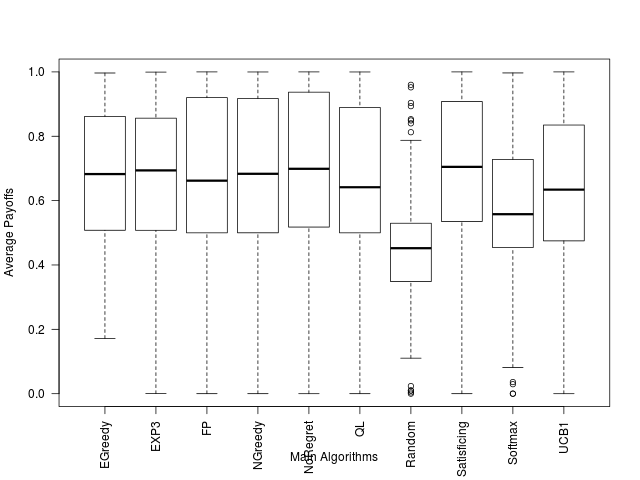
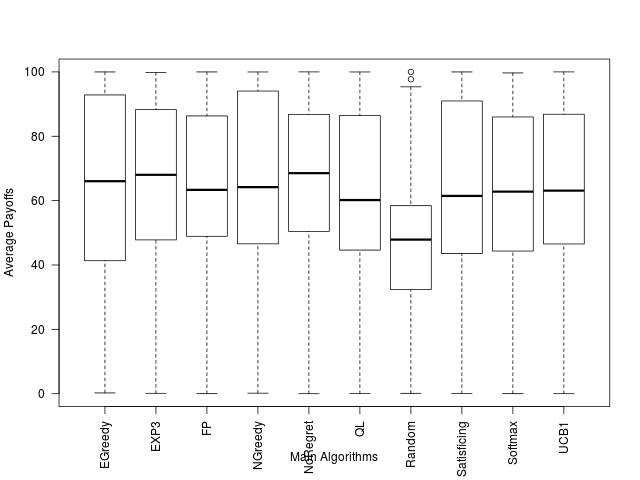
add tables, flag n,m = true

diff --git a/tables/totaldata2a.tex b/tables/totaldata2a.tex
@@ -1,20 +1,20 @@
 % latex table generated in R 3.2.3 by xtable 1.8-3 package
-% Tue Apr  2 15:21:40 2019
+% Tue Apr  2 21:18:58 2019
 \begin{table}[ht]
 \centering
 \begin{tabular}{rrrrrrrrrrr}
   \hline
  & Random & UCB1 & EXP3 & Satisficing & EGreedy & NGreedy & Softmax & NoRegret & FP & QL \\ 
   \hline
-2 & 44.84 & 71.89 & 72.98 & 73.88 & 71.26 & 75.07 & 72.64 & 77.57 & 76.39 & 71.33 \\ 
-  3 & 49.83 & 69.82 & 67.92 & 70.68 & 68.44 & 70.23 & 71.20 & 71.81 & 72.62 & 72.46 \\ 
-  4 & 46.19 & 66.67 & 64.71 & 64.06 & 66.18 & 68.51 & 68.03 & 69.55 & 67.86 & 70.17 \\ 
-  5 & 44.74 & 61.87 & 64.61 & 65.40 & 64.98 & 69.11 & 66.65 & 66.78 & 68.00 & 62.85 \\ 
-  6 & 46.76 & 65.48 & 63.96 & 62.09 & 61.06 & 63.44 & 61.57 & 65.71 & 62.53 & 64.17 \\ 
-  7 & 43.92 & 63.40 & 62.10 & 65.69 & 65.39 & 58.96 & 63.98 & 62.59 & 63.73 & 60.76 \\ 
-  8 & 45.59 & 61.75 & 61.60 & 63.54 & 61.23 & 62.72 & 61.55 & 64.48 & 62.18 & 61.62 \\ 
-  9 & 45.37 & 63.18 & 63.67 & 66.06 & 61.65 & 62.32 & 59.78 & 63.21 & 65.73 & 59.24 \\ 
-  10 & 45.14 & 61.38 & 63.34 & 61.98 & 62.28 & 62.49 & 60.61 & 64.37 & 62.29 & 61.51 \\ 
+2 & 0.08 & 0.84 & 0.87 & 0.90 & 0.82 & 0.93 & 0.86 & 1.00 & 0.97 & 0.82 \\ 
+  3 & 0.22 & 0.78 & 0.73 & 0.81 & 0.74 & 0.79 & 0.82 & 0.84 & 0.86 & 0.86 \\ 
+  4 & 0.11 & 0.69 & 0.64 & 0.62 & 0.68 & 0.74 & 0.73 & 0.77 & 0.73 & 0.79 \\ 
+  5 & 0.07 & 0.56 & 0.63 & 0.66 & 0.64 & 0.76 & 0.69 & 0.70 & 0.73 & 0.58 \\ 
+  6 & 0.13 & 0.66 & 0.62 & 0.56 & 0.53 & 0.60 & 0.55 & 0.66 & 0.57 & 0.62 \\ 
+  7 & 0.05 & 0.60 & 0.56 & 0.66 & 0.66 & 0.47 & 0.62 & 0.58 & 0.61 & 0.53 \\ 
+  8 & 0.10 & 0.55 & 0.55 & 0.60 & 0.54 & 0.58 & 0.55 & 0.63 & 0.57 & 0.55 \\ 
+  9 & 0.09 & 0.59 & 0.61 & 0.67 & 0.55 & 0.57 & 0.50 & 0.59 & 0.67 & 0.48 \\ 
+  10 & 0.08 & 0.54 & 0.60 & 0.56 & 0.57 & 0.57 & 0.52 & 0.63 & 0.57 & 0.55 \\ 
    \hline
 \end{tabular}
 \end{table}

diff --git a/tables/totaldata3a.tex b/tables/totaldata3a.tex
@@ -1,20 +1,20 @@
 % latex table generated in R 3.2.3 by xtable 1.8-3 package
-% Tue Apr  2 15:21:40 2019
+% Tue Apr  2 21:18:58 2019
 \begin{table}[ht]
 \centering
 \begin{tabular}{rrrrrrrrrrr}
   \hline
  & Random & UCB1 & EXP3 & Satisficing & EGreedy & NGreedy & Softmax & NoRegret & FP & QL \\ 
   \hline
-2 & 49.78 & 72.87 & 70.87 & 75.52 & 73.83 & 75.12 & 71.76 & 74.34 & 73.97 & 75.19 \\ 
-  3 & 46.18 & 66.16 & 67.79 & 69.58 & 65.56 & 68.88 & 66.80 & 67.46 & 66.80 & 65.86 \\ 
-  4 & 43.40 & 63.68 & 62.05 & 66.67 & 61.40 & 64.38 & 63.35 & 66.54 & 63.35 & 63.52 \\ 
-  5 & 45.70 & 59.95 & 61.45 & 63.17 & 62.07 & 61.40 & 60.81 & 63.48 & 62.58 & 63.35 \\ 
-  6 & 44.37 & 59.82 & 56.54 & 60.09 & 62.07 & 62.26 & 57.45 & 61.61 & 60.94 & 60.30 \\ 
-  7 & 43.12 & 57.90 & 56.77 & 61.76 & 60.53 & 59.25 & 57.74 & 59.76 & 59.76 & 60.14 \\ 
-  8 & 43.74 & 55.87 & 56.86 & 59.18 & 57.99 & 58.33 & 58.50 & 62.00 & 58.09 & 57.48 \\ 
-  9 & 44.87 & 55.18 & 56.60 & 60.87 & 58.38 & 59.36 & 57.13 & 63.06 & 55.93 & 57.06 \\ 
-  10 & 42.17 & 57.21 & 58.73 & 59.47 & 58.89 & 60.64 & 58.14 & 61.74 & 58.34 & 60.49 \\ 
+2 & 0.22 & 0.87 & 0.81 & 0.94 & 0.89 & 0.93 & 0.84 & 0.91 & 0.90 & 0.93 \\ 
+  3 & 0.11 & 0.68 & 0.72 & 0.77 & 0.66 & 0.75 & 0.70 & 0.71 & 0.70 & 0.67 \\ 
+  4 & 0.03 & 0.61 & 0.56 & 0.69 & 0.54 & 0.63 & 0.60 & 0.69 & 0.60 & 0.60 \\ 
+  5 & 0.10 & 0.50 & 0.54 & 0.59 & 0.56 & 0.54 & 0.53 & 0.60 & 0.58 & 0.60 \\ 
+  6 & 0.06 & 0.50 & 0.41 & 0.51 & 0.56 & 0.57 & 0.43 & 0.55 & 0.53 & 0.51 \\ 
+  7 & 0.03 & 0.44 & 0.41 & 0.55 & 0.52 & 0.48 & 0.44 & 0.50 & 0.50 & 0.51 \\ 
+  8 & 0.04 & 0.39 & 0.41 & 0.48 & 0.45 & 0.46 & 0.46 & 0.56 & 0.45 & 0.43 \\ 
+  9 & 0.08 & 0.37 & 0.41 & 0.53 & 0.46 & 0.49 & 0.42 & 0.59 & 0.39 & 0.42 \\ 
+  10 & 0.00 & 0.42 & 0.47 & 0.49 & 0.47 & 0.52 & 0.45 & 0.55 & 0.46 & 0.52 \\ 
    \hline
 \end{tabular}
 \end{table}

diff --git a/tables/totaldata4a.tex b/tables/totaldata4a.tex
@@ -1,20 +1,20 @@
 % latex table generated in R 3.2.3 by xtable 1.8-3 package
-% Tue Apr  2 15:21:40 2019
+% Tue Apr  2 21:18:58 2019
 \begin{table}[ht]
 \centering
 \begin{tabular}{rrrrrrrrrrr}
   \hline
  & Random & UCB1 & EXP3 & Satisficing & EGreedy & NGreedy & Softmax & NoRegret & FP & QL \\ 
   \hline
-2 & 46.28 & 71.65 & 72.30 & 74.93 & 72.91 & 74.08 & 67.96 & 72.57 & 74.51 & 74.77 \\ 
-  3 & 44.31 & 69.58 & 66.17 & 67.01 & 67.23 & 67.10 & 62.86 & 67.47 & 64.65 & 66.35 \\ 
-  4 & 46.86 & 60.28 & 62.20 & 63.36 & 60.65 & 62.93 & 60.08 & 66.28 & 62.34 & 62.30 \\ 
-  5 & 44.49 & 62.25 & 59.36 & 61.05 & 58.68 & 62.81 & 60.11 & 63.85 & 60.98 & 62.54 \\ 
-  6 & 43.74 & 61.59 & 59.02 & 62.58 & 61.00 & 61.84 & 58.68 & 61.98 & 58.33 & 59.32 \\ 
-  7 & 44.03 & 58.62 & 57.92 & 59.36 & 57.61 & 58.91 & 58.07 & 58.00 & 56.08 & 60.86 \\ 
-  8 & 44.62 & 57.58 & 57.72 & 58.82 & 56.71 & 59.19 & 54.96 & 61.08 & 56.15 & 59.06 \\ 
-  9 & 44.62 & 57.58 & 57.72 & 58.82 & 56.71 & 59.19 & 54.96 & 61.08 & 56.15 & 59.06 \\ 
-  10 & 44.62 & 57.58 & 57.72 & 58.82 & 56.71 & 59.19 & 54.96 & 61.08 & 56.15 & 59.06 \\ 
+2 & 0.12 & 0.83 & 0.85 & 0.93 & 0.87 & 0.90 & 0.73 & 0.86 & 0.91 & 0.92 \\ 
+  3 & 0.06 & 0.77 & 0.68 & 0.70 & 0.71 & 0.70 & 0.58 & 0.71 & 0.64 & 0.68 \\ 
+  4 & 0.13 & 0.51 & 0.57 & 0.60 & 0.52 & 0.59 & 0.51 & 0.68 & 0.57 & 0.57 \\ 
+  5 & 0.07 & 0.57 & 0.49 & 0.53 & 0.47 & 0.58 & 0.51 & 0.61 & 0.53 & 0.58 \\ 
+  6 & 0.04 & 0.55 & 0.48 & 0.58 & 0.53 & 0.56 & 0.47 & 0.56 & 0.46 & 0.48 \\ 
+  7 & 0.05 & 0.46 & 0.44 & 0.49 & 0.44 & 0.47 & 0.45 & 0.45 & 0.39 & 0.53 \\ 
+  8 & 0.07 & 0.44 & 0.44 & 0.47 & 0.41 & 0.48 & 0.36 & 0.53 & 0.39 & 0.48 \\ 
+  9 & 0.07 & 0.44 & 0.44 & 0.47 & 0.41 & 0.48 & 0.36 & 0.53 & 0.39 & 0.48 \\ 
+  10 & 0.07 & 0.44 & 0.44 & 0.47 & 0.41 & 0.48 & 0.36 & 0.53 & 0.39 & 0.48 \\ 
    \hline
 \end{tabular}
 \end{table}

diff --git a/src/game.cpp b/src/game.cpp
@@ -59,7 +59,10 @@ void Game::update_hypo_rewards_by_action(unique_ptr<Player> &p, vector<int> &sel
 	for(int i = 0; i < action_size; i++)
 	{
 		acts[pid] = i;
-		float hypo_reward = m_game_parser->queryByVec(acts)[pid];
+		// float hypo_reward = m_game_parser->queryByVec(acts)[pid]; //TODO: compare with expected reward
+    float hypo_reward{0.0};
+		if(p->m_info.m_counts_by_action[i] > 0)
+      hypo_reward = p->m_info.m_acc_payoffs_by_action[i] / p->m_info.m_counts_by_action[i];
 		p->m_info.m_acc_hypo_reward_by_action[i] += hypo_reward - cur_reward;
 	}
 	

diff --git a/tables/spearman-player-payoffs.tex b/tables/spearman-player-payoffs.tex
@@ -1,0 +1,17 @@
+% latex table generated in R 3.2.3 by xtable 1.8-3 package
+% Wed May 22 15:53:39 2019
+\begin{table}[ht]
+\centering
+\begin{tabular}{rrrr}
+  \hline
+ & statistic & p.value & estimate \\ 
+  \hline
+1 & 2.160E+02 & 6.914E-03 & -8.000E-01 \\ 
+  2 & 2.380E+02 & 2.480E-05 & -9.833E-01 \\ 
+  3 & 2.300E+02 & 6.559E-04 & -9.167E-01 \\ 
+  4 & 2.320E+02 & 3.748E-04 & -9.333E-01 \\ 
+  5 & 1.100E+02 & 1.389E-03 & -9.643E-01 \\ 
+  6 & 1.120E+02 & 1.984E-04 & -1.000E+00 \\ 
+   \hline
+\end{tabular}
+\end{table}

diff --git a/tables/kstest-all-raw-data.tex b/tables/kstest-all-raw-data.tex
@@ -1,0 +1,20 @@
+% latex table generated in R 3.2.3 by xtable 1.8-3 package
+% Thu May 16 19:05:05 2019
+\begin{table}[ht]
+\centering
+\begin{tabular}{rrr}
+  \hline
+ & statistic & p.value \\ 
+  \hline
+1 & 0.12 & 0.00 \\ 
+  2 & 0.08 & 0.00 \\ 
+  3 & 0.08 & 0.00 \\ 
+  4 & 0.07 & 0.00 \\ 
+  5 & 0.09 & 0.00 \\ 
+  6 & 0.05 & 0.00 \\ 
+  7 & 0.06 & 0.00 \\ 
+  8 & 0.06 & 0.00 \\ 
+  9 & 0.06 & 0.00 \\ 
+   \hline
+\end{tabular}
+\end{table}

diff --git a/src/main.cpp b/src/main.cpp
@@ -406,7 +406,7 @@ bool GameGenerator::run_all_games_mt(int total_iterations, int set_players, int 
 	// n-player check
 	// auto nplayerCheck = [](GameType &gt){return gt.allow_more_players && gt.name != "CollaborationGame" && gt.name != "CoordinationGame";};
 	// filter games to support n-player and n-action parameters
-	bool flag_nplayer_naction{false};
+	bool flag_nplayer_naction{true};
 
   ThreadMgr tmgr(set_mt);
 	int taskid = 0;

diff --git a/tables/spearman-action-diff-payoffs.tex b/tables/spearman-action-diff-payoffs.tex
@@ -1,0 +1,14 @@
+% latex table generated in R 3.2.3 by xtable 1.8-3 package
+% Wed May 22 16:50:46 2019
+\begin{table}[ht]
+\centering
+\begin{tabular}{rrrr}
+  \hline
+ & statistic & p.value & estimate \\ 
+  \hline
+1 & 1.000E+02 & 2.401E-02 & -7.857E-01 \\ 
+  2 & 1.600E+01 & 9.669E-01 & 7.143E-01 \\ 
+  3 & 6.200E+01 & 4.198E-01 & -1.071E-01 \\ 
+   \hline
+\end{tabular}
+\end{table}

diff --git a/tables/spearman-action-payoffs.tex b/tables/spearman-action-payoffs.tex
@@ -1,0 +1,13 @@
+% latex table generated in R 3.2.3 by xtable 1.8-3 package
+% Wed May 22 16:29:30 2019
+\begin{table}[ht]
+\centering
+\begin{tabular}{rrrr}
+  \hline
+ & statistic & p.value & estimate \\ 
+  \hline
+1 & 8.000E+00 & 1.667E-01 & -1.000E+00 \\ 
+  2 & 8.000E+00 & 1.667E-01 & -1.000E+00 \\ 
+   \hline
+\end{tabular}
+\end{table}

diff --git a/tables/kstest-groupdata-less.tex b/tables/kstest-groupdata-less.tex
@@ -1,0 +1,13 @@
+% latex table generated in R 3.2.3 by xtable 1.8-3 package
+% Wed May 22 16:16:48 2019
+\begin{table}[ht]
+\centering
+\begin{tabular}{rrrr}
+  \hline
+ & 2-action & 3-action & 4-action \\ 
+  \hline
+statistic & 0.56 & 0.44 & 0.29 \\ 
+  p.value & 0.06 & 0.17 & 0.56 \\ 
+   \hline
+\end{tabular}
+\end{table}

diff --git a/tables/kstest-groupdata-two.tex b/tables/kstest-groupdata-two.tex
@@ -1,0 +1,13 @@
+% latex table generated in R 3.2.3 by xtable 1.8-3 package
+% Wed May  8 12:17:10 2019
+\begin{table}[ht]
+\centering
+\begin{tabular}{rrrr}
+  \hline
+ & 2-action & 3-action & 4-action \\ 
+  \hline
+statistic & 0.56 & 0.44 & 0.29 \\ 
+  p.value & 0.13 & 0.35 & 0.96 \\ 
+   \hline
+\end{tabular}
+\end{table}

diff --git a/tables/kstest-groupdata.tex b/tables/kstest-groupdata.tex
@@ -1,5 +1,5 @@
 % latex table generated in R 3.2.3 by xtable 1.8-3 package
-% Tue Apr  2 21:18:58 2019
+% Wed May  8 12:10:06 2019
 \begin{table}[ht]
 \centering
 \begin{tabular}{rrrrrrr}
